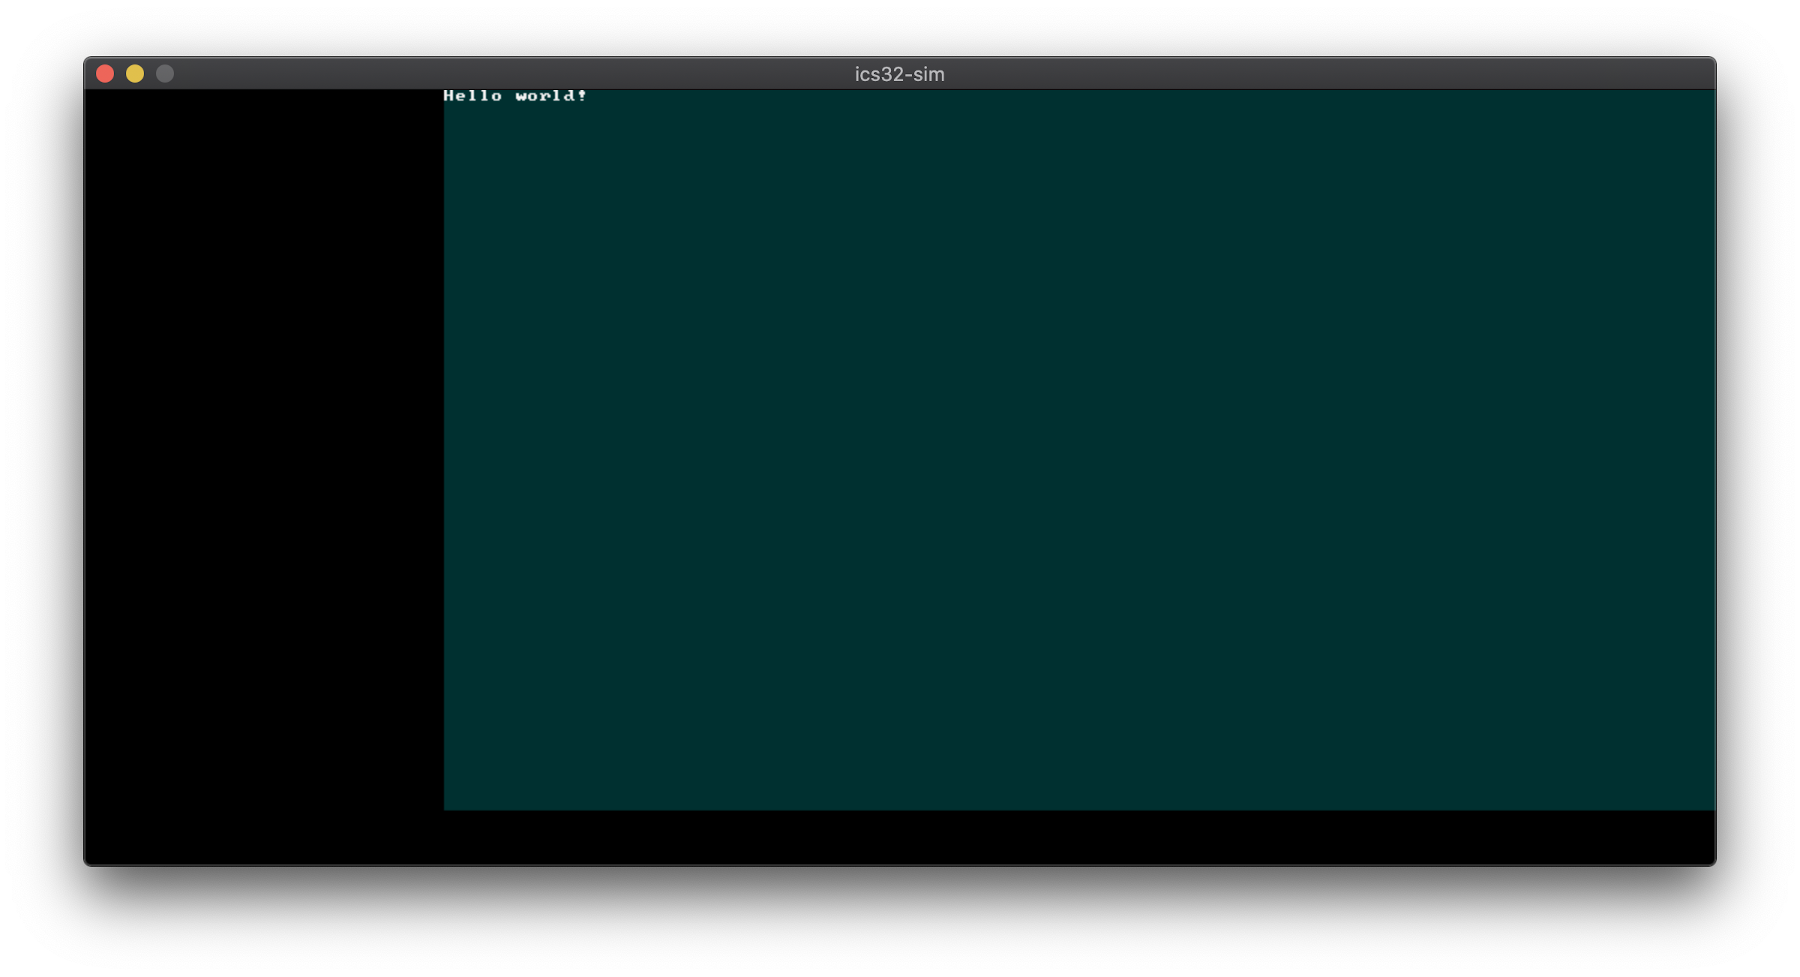
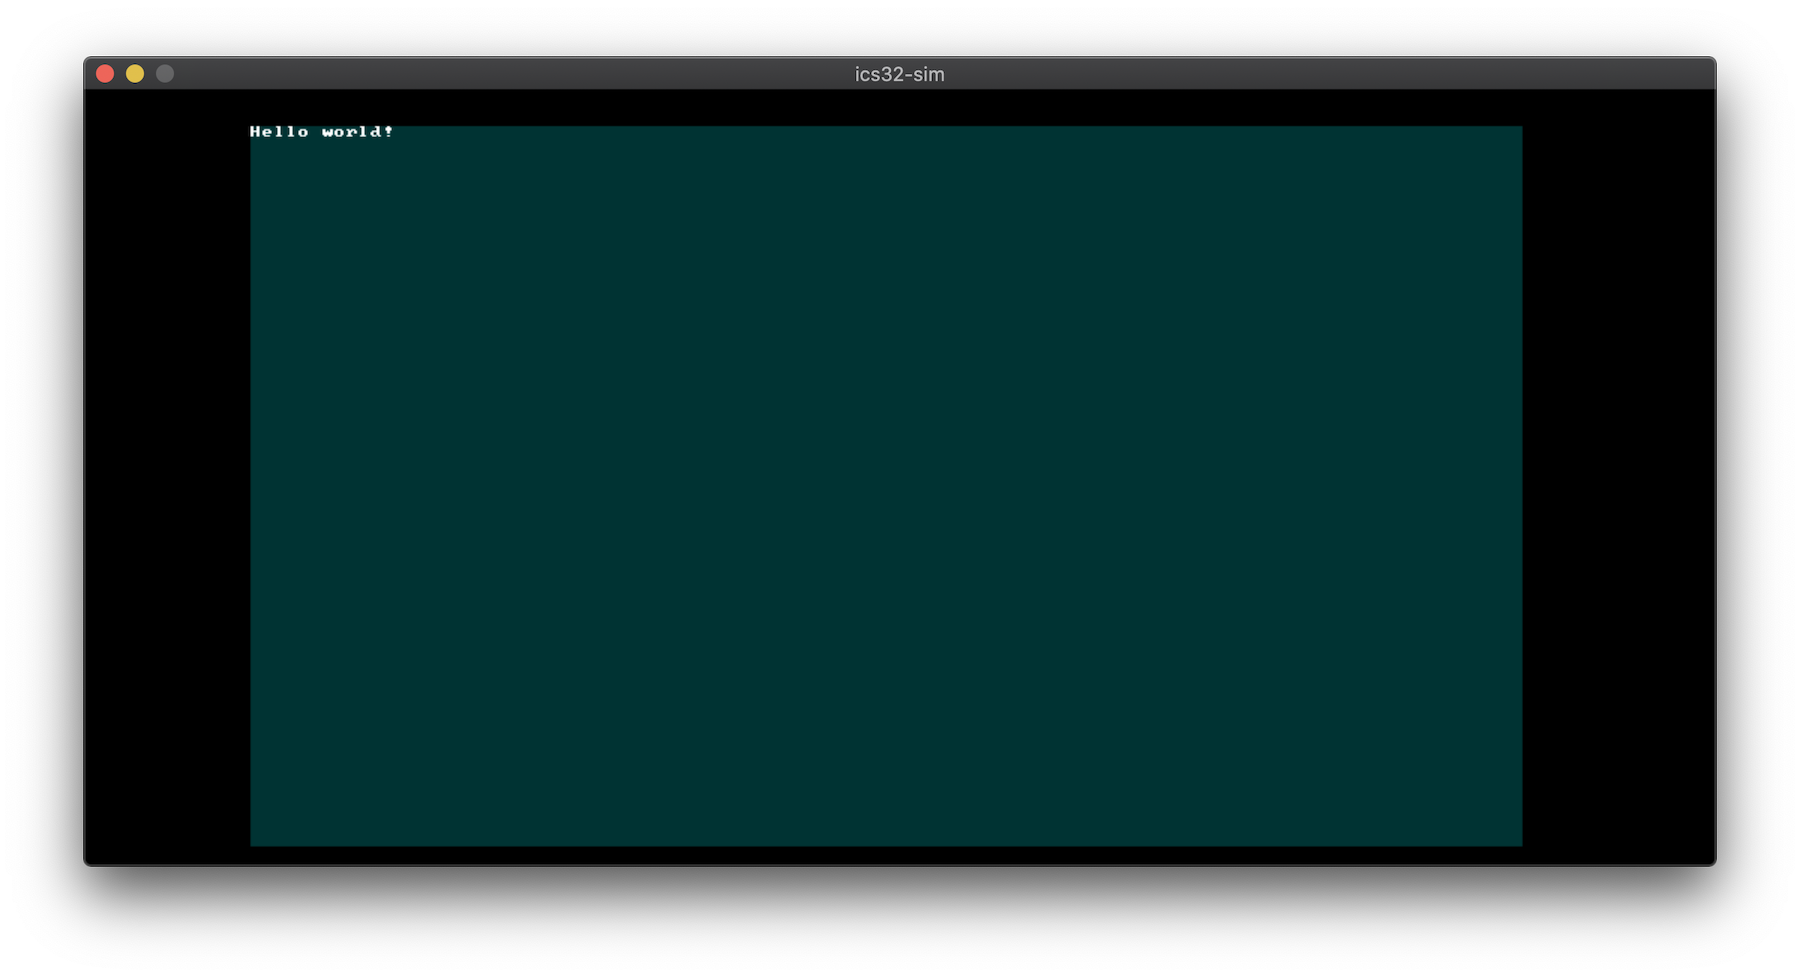
Redo screenshots with new sync positions

Changed region(s): [[0.1244, 0.0921, 0.9644, 0.8905]]

diff --git a/software/README.md b/software/README.md
@@ -8,6 +8,12 @@ A few demo applications are included so far:
 
 The `CROSS` variable in `common/common.mk` must be set according to the name of your RISC-V installation.
 
+## `platformer/`
+
+Controllable character sprite that can walk and jump with simple physics on a static playfield. This uses the gamepad interface which is currently mocked using the 3 buttons on the iCEBreaker.
+
+![Platformer demo](screenshots/platformer.png)
+
 ## `sprites/`
 
 Animated sprites demo. A palette-based PNG file is converted to the ics-32 format and compiled into the demo. This demo also shows alpha blending of sprites onto a variable backgroud color.
@@ -28,3 +34,5 @@ Minimal example using a single scrolling layer to display monochrome text.
 
 * [Rotating crystal graphics](https://opengameart.org/content/rotating-crystal-animation-8-step) by qubodup
 * [8x8 font](https://github.com/dhepper/font8x8) by dhepper
+* [Super Miyamoto spritesheet](https://opengameart.org/content/super-miyamoto) by Lars Doucet & Sean Choate. Minor modifications were made for the `platformer` demo.
+* [Super Mario World Redrawn](https://www.romhacking.net/hacks/2919/) game mod by IceGoom
